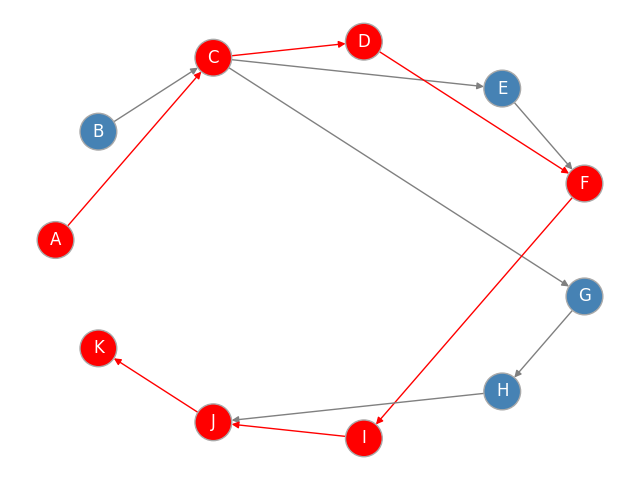
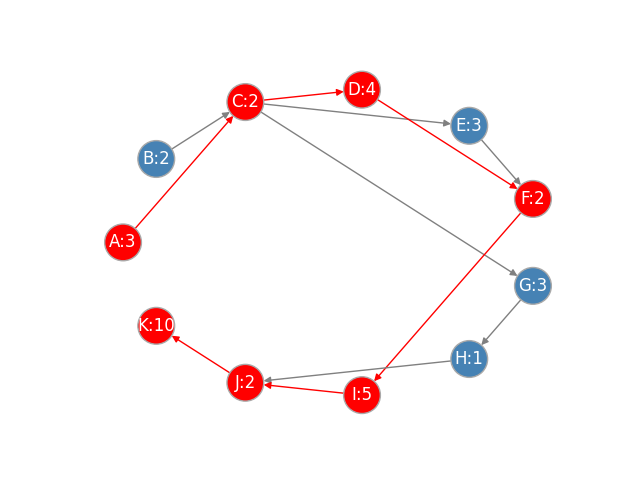
updated

diff --git a/dag_draft_v02.py b/dag_draft_v02.py
@@ -23,40 +23,53 @@ node_description_dict = {}
 
 # Initialize empty edge_list, each edge is stored as tuple
 edge_list = []
+id_to_name = {}
 
 # Read the CSV file, update node_dict, node_description_dict, and edge_list
 with open(filename, 'r', encoding='UTF-8') as file:
     reader = csv.reader(file)
     next(reader)  # skip header row
 
+    # mapping node labels and their durations
     for row in reader:
-        node = row[0]
+        id_to_name[row[0]] = row[0]+':'+row[2]
+
+    id_to_name[start_node] = start_node
+    id_to_name[end_node] = end_node
+
+with open(filename, 'r', encoding='UTF-8') as file:
+    reader = csv.reader(file)
+    next(reader)  # skip header row
+
+    for row in reader:
+        node_label = row[0]
         description = row[1]
         duration = int(row[2]) if row[2] else 0
         preceding = row[3].split(',') if row[3] else []
 
         # Add the node and its duration to node_duration_dict
-        node_dict[node] = duration
+        node_dict[id_to_name[node_label]] = duration
 
         # Add the node and its description to node_description_dict
-        node_description_dict[node] = description
+        node_description_dict[node_label] = description
 
         # If node has no preceding node, add edge from virtual start node
         if not preceding:
-            edge = (start_node, node)
+            edge = (id_to_name[start_node], id_to_name[node_label])
             if edge not in edge_list:
                 edge_list.append(edge)
         else:
             # If node has preceding nodes, add edges accordingly
             for p in preceding:
-                edge = (p.strip(), node)
+                s = p.strip()
+                edge = (id_to_name[s], id_to_name[node_label])
                 if edge not in edge_list:
                     edge_list.append(edge)
 
 # If node is not being pointed to, add edge to virtual end node
-for node in node_dict.keys():
-    if node not in [e[0] for e in edge_list] and node != end_node:
-        edge = (node, end_node)
+for node_label in node_dict.keys():
+    if node_label not in [e[0] for e in edge_list] and node_label != end_node:
+        edge = (node_label, id_to_name[end_node])
         if edge not in edge_list:
             edge_list.append(edge)
 
@@ -78,6 +91,16 @@ G.add_edges_from(edge_list)
 # Satisfy both conditions: Directed, Acyclic
 is_valid_DAG = nx.is_directed_acyclic_graph(G)
 print(f'G is a valid directed acyclic graph: {is_valid_DAG}')
+
+# Assign weight to each edge based on input
+# for i, j in G.edges():
+#     G[i][j]['weight'] = 3
+
+# print(node_dict)
+# nx.get_edge_attributes(G, 'weight')
+# print(G.nodes.items())
+# for name, j in G.nodes.items():
+#     nx.relabel_nodes(G, {name: name + ":" + str(node_dict[name])})
 
 
 # Function to find the longest path (brute-force approach)
@@ -122,6 +145,7 @@ edges_lp = [
 G.remove_node(start_node)
 G.remove_node(end_node)
 
+
 print('The longest path is', longest_path, 'with a length of', longest_length)
 print('The edges of the longest path is', edges_lp)
 
@@ -133,16 +157,20 @@ print('The edges of the longest path is', edges_lp)
 # TODO: Reformat the graph so that it looks like what's in the book
 
 # Layout options: spring, spectral, planar, random, etc.
-
+plt.figure()
 pos = nx.shell_layout(G)
 pos = {k: (v[0], -v[1]) for k, v in pos.items()}
 node_col = ['red' if node in longest_path else 'steelblue' for node in G.nodes()]
 edge_colors = ['red' if edge in edges_lp else 'grey' for edge in G.edges()]
+weight_labels = nx.get_edge_attributes(G, 'weight')
+output = nx.draw_networkx_edge_labels(G, pos, edge_labels=weight_labels)
 
 
 # Draw DAG (w/o weight labels)
 nx.draw(G, pos, with_labels=True, font_color='white', edge_color=edge_colors, edgecolors='darkgray',
         node_color=node_col, node_size=700)
+# Draw Weighted Edges
+nx.draw_networkx_edge_labels(G, pos, edge_labels=weight_labels)
 
 
 def save_graph(filename):

diff --git a/networkx_basics.py b/networkx_basics.py
@@ -1,0 +1,69 @@
+import networkx as nx
+import matplotlib.pyplot as plt
+
+G = nx.Graph()
+
+G.add_node('A')
+G.add_node('B')
+G.add_node('C')
+G.add_node('D')
+G.add_node('E')
+G.add_node('F')
+G.add_node('G')
+G.add_node('H')
+
+G.add_edge('A', 'D')
+G.add_edge('B', 'C')
+G.add_edge('C', 'D')
+G.add_edge('C', 'F')
+G.add_edge('E', 'F')
+G.add_edge('A', 'B')
+G.add_edge('E', 'G')
+G.add_edge('E', 'G')
+G.add_edge('G', 'G')
+G.add_edge('D', 'E')
+
+V = {'A': 0, 'B': 0, 'C': 3, 'D': 2, 'E': 2, 'F': 4, 'G': 3, 'H': 2}
+
+for i, j in G.edges():
+    G[i][j]['weight'] = V[str(i)] + V[str(j)]
+
+nx.get_edge_attributes(G, 'weight')
+
+
+def show_graph():
+    nx.draw(G, with_labels=True, font_color='white', node_shape='s')
+
+
+def show_wgraph():
+    plt.figure()
+    pos = nx.spring_layout(G)
+    weight_labels = nx.get_edge_attributes(G, 'weight')
+    nx.draw(G, pos, font_color='white', node_shape='s', with_labels=True,)
+    output = nx.draw_networkx_edge_labels(G, pos, edge_labels=weight_labels)
+
+
+def show_wpath(from_node, to_node):
+    plt.figure()
+    pos = nx.spring_layout(G)
+
+    weight_labels = nx.get_edge_attributes(G, 'weight')
+
+    path = nx.shortest_path(G, source=from_node, target=to_node)
+
+    edges_path = list(zip(path, path[1:]))
+    edges_path_reversed = [(y, x) for (x, y) in edges_path]
+    edges_path = edges_path + edges_path_reversed
+    edge_colors = [
+        'black' if not edge in edges_path else 'red' for edge in G.edges()]
+
+    nodecol = ['steelblue' if not node in path else 'red' for node in G.nodes()]
+    nx.draw(G, pos, with_labels=True, font_color='white',
+            edge_color=edge_colors, node_shape='s', node_color=nodecol)
+    nx.draw_networkx_edge_labels(G, pos, edge_labels=weight_labels)
+
+
+# show_wgraph()
+show_wpath(1, 8)
+
+plt.show()

diff --git a/tempCodeRunnerFile.py b/tempCodeRunnerFile.py
@@ -1,0 +1,2 @@
+    # id_to_name[start_node] = start_node
+    # id_to_name[end_node] = end_node
